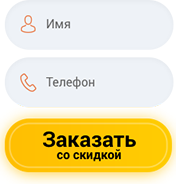
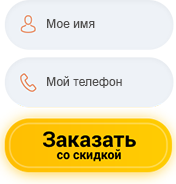
kh add adaptive edits

Changed region(s): [[0.2557, 0.4076, 0.7102, 0.4891], [0.2557, 0.0815, 0.5398, 0.163]]

diff --git a/source/template/common/k__intro-bottom.html b/source/template/common/k__intro-bottom.html
@@ -77,14 +77,14 @@
                 <div class="intro__form">
                     <div class="intro__pack">
                         <div class="intro__pack-tablets">
-                            <div class="intro__pack-label font_black">299 <span class="intro__pacl-currency">₽</span></div>
+                            <div class="intro__pack-label font_black x_price_current">299 <span class="intro__pacl-currency x_currency">₽</span></div>
                             <div class="intro__tablets">
                                 <img src="img/product-pack-tab.png" alt="" class="intro__pack-img">
                             </div>
                             <img src="img/product-tablets.png" alt="" class="intro__pack-img intro__pack-img_tablets">
                         </div>
                         <div class="intro__pack-gel">
-                            <div class="intro__pack-label intro__pack-label_island font_black">299 <span class="intro__pacl-currency">₽</span></div>
+                            <div class="intro__pack-label intro__pack-label_island font_black x_price_current">299 <span class="intro__pacl-currency x_currency">₽</span></div>
                             <img src="img/product-gel.png" alt="" class="intro__pack-img intro__pack-img_gel">
                         </div>
                         <img src="img/product-stick.png" alt="" class="intro__pack-img intro__pack-img_stick">
@@ -92,7 +92,7 @@
                     <div class="form">
                         <div class="form__wrap">
                             <div class="form__title">
-                                Успейте заказать со скидкой <br> <span class="form__title-accent font_medium">до <span class="date-0" data-format="mm.dd.yyyy">10.09.2018</span></span>
+                                Успейте заказать со скидкой <br> <span class="form__title-accent font_medium">до <span class="date-0" data-format="dd.mm.yyyy">10.09.2018</span></span>
                             </div>
                             <div class="form__price">
                                 <div class="form__price-old">
@@ -111,8 +111,12 @@
                                 </div>
                             </div>
                             <form class="form__main x_order_form" action="/submit" method="post">
-                                <input type="text" name="name" class="form__main-input form__main-name" placeholder="Мое имя" required>
-                                <input type="text" name="tel" class="form__main-input form__main-tel" placeholder="Мой телефон" required>
+                                <div class="form__main-name">
+                                    <input type="text" name="name" class="form__main-input" placeholder="Мое имя" required>
+                                </div>
+                                <div class="form__main-tel">
+                                    <input type="tel" name="phone" class="form__main-input" placeholder="Мой телефон" required>
+                                </div>
                                 <div class="btn-box">
                                     <button type="submit" class="btn font_bold">Заказать <span class="small-text">со скидкой</span></button>
                                 </div>

diff --git a/source/template/common/a__intro.html b/source/template/common/a__intro.html
@@ -77,14 +77,14 @@
             <div class="intro__form">
                 <div class="intro__pack">
                     <div class="intro__pack-tablets">
-                        <div class="intro__pack-label font_black">299 <span class="intro__pacl-currency">₽</span></div>
+                        <div class="intro__pack-label font_black x_price_current">299 <span class="intro__pacl-currency x_currency">₽</span></div>
                         <div class="intro__tablets">
                             <img src="img/product-pack-tab.png" alt="" class="intro__pack-img">
                         </div>
                         <img src="img/product-tablets.png" alt="" class="intro__pack-img intro__pack-img_tablets">
                     </div>
                     <div class="intro__pack-gel">
-                        <div class="intro__pack-label intro__pack-label_island font_black">299 <span class="intro__pacl-currency">₽</span></div>
+                        <div class="intro__pack-label intro__pack-label_island font_black x_price_current">299 <span class="intro__pacl-currency x_currency">₽</span></div>
                         <img src="img/product-gel.png" alt="" class="intro__pack-img intro__pack-img_gel">
                     </div>
                     <img src="img/product-stick.png" alt="" class="intro__pack-img intro__pack-img_stick">
@@ -92,7 +92,7 @@
                 <div class="form">
                     <div class="form__wrap">
                         <div class="form__title">
-                            Успейте заказать со скидкой <br> <span class="form__title-accent font_medium">до <span class="date-0" data-format="mm.dd.yyyy">10.09.2018</span></span>
+                            Успейте заказать со скидкой <br> <span class="form__title-accent font_medium">до <span class="date-0" data-format="dd.mm.yyyy">10.09.2018</span></span>
                         </div>
                         <div class="form__price">
                             <div class="form__price-old">
@@ -111,8 +111,12 @@
                             </div>
                         </div>
                         <form class="form__main x_order_form" action="/submit" method="post">
-                            <input type="text" name="name" class="form__main-input form__main-name" placeholder="Мое имя" required>
-                            <input type="tel" name="phone" class="form__main-input form__main-tel" placeholder="Мой телефон" required>
+                            <div class="form__main-name">
+                                <input type="text" name="name" class="form__main-input" placeholder="Мое имя" required>
+                            </div>
+                            <div class="form__main-tel">
+                                <input type="tel" name="phone" class="form__main-input" placeholder="Мой телефон" required>
+                            </div>
                             <div class="btn-box">
                                 <button type="submit" class="btn font_bold">Заказать <span class="small-text">со скидкой</span></button>
                             </div>

diff --git a/source/style/common/a__intro.scss b/source/style/common/a__intro.scss
@@ -6,6 +6,13 @@
   background-repeat: no-repeat;
   margin-bottom: 100px;
 
+  .container {
+
+    @include laptop {
+      max-width: 800px;
+    }
+  }
+
   &::after {
     content: '';
     position: absolute;
@@ -29,6 +36,14 @@
   @include laptop {
     background-image: none;
     margin-bottom: 0;
+  }
+
+  @include tablet {
+    padding-bottom: 35px;
+  }
+
+  @include phone {
+    padding-bottom: 30px;
   }
 }
 
@@ -408,7 +423,7 @@
 
   @include laptop {
     max-width: none;
-    width: 700px;
+    max-width: 700px;
     font-size: 39px;
     text-align: center;
     margin: 0 auto 25px;
@@ -416,7 +431,7 @@
 
   @include tablet {
     font-size: 34px;
-    width: 100%;
+    max-width: 500px;
     margin: 0 auto 20px;
   }
 
@@ -445,6 +460,13 @@
   justify-content: space-between;
   align-items: center;
   line-height: 1;
+
+  &:nth-child(2) {
+    
+    @include laptop {
+      margin-right: 5px;
+    }
+  }
 
   @include laptop {
     flex-direction: column;
@@ -576,7 +598,7 @@
   line-height: 1.1;
 
   @include laptop {
-    width: 250px;
+    width: 242px;
     font-size: 16px;
   }
 
@@ -724,24 +746,41 @@
   width: 100%;
   padding: 25px 25px 20px 55px;
   background-color: #eef2f7;
-  background-position: 21px 50%;
-  background-repeat: no-repeat;
   border-radius: 100px;
   border: none;
   outline: none;
-
-  &:not(:last-of-type) {
-    margin-bottom: 10px;
-  }
-
 }
 
 .form__main-name {
-  background-image: url('../img/form-name.svg');
+  position: relative;
+  margin-bottom: 10px;
+
+  &::before {
+    content: '';
+    position: absolute;
+    top: 50%;
+    left: 21px;
+    display: block;
+    width: 19px;
+    height: 23px;
+    background: url('../img/form-name.svg') 0 0 no-repeat;
+    // transform: translateX(-50%);
+    transform: translateY(-50%);
+  }
 }
 
 .form__main-tel {
-  background-image: url('../img/form-tel.svg');
+
+  &::before {
+    content: '';
+    position: absolute;
+    top: 51%;
+    left: 37px;
+    display: block;
+    width: 21px;
+    height: 24px;
+    background: url('../img/form-tel.svg') 0 0 no-repeat;
+  }
 }
 
 .intro {
@@ -753,7 +792,7 @@
 
 
 .form__main-footnote {
-  margin-bottom: 10px;
+  margin-bottom: 12px;
   text-align: center;
   font-size: 14px;
 }

diff --git a/source/template/common/popup.html b/source/template/common/popup.html
@@ -25,7 +25,7 @@
                         <div class="form">
                             <div class="form__wrap">
                                 <div class="form__title">
-                                    Успейте заказать со скидкой <br> <span class="form__title-accent font_medium">до <span class="date-0" data-format="mm.dd.yyyy">10.09.2018</span></span>
+                                    Успейте заказать со скидкой <br> <span class="form__title-accent font_medium">до <span class="date-0" data-format="dd.mm.yyyy">10.09.2018</span></span>
                                 </div>
                                 <div class="form__price">
                                     <div class="form__price-old">
@@ -44,8 +44,12 @@
                                     </div>
                                 </div>
                                 <form class="form__main x_order_form" action="/submit" method="post">
-                                    <input type="text" name="name" class="form__main-input form__main-name" placeholder="Имя" required>
-                                    <input type="text" name="tel" class="form__main-input form__main-tel" placeholder="Телефон" required>
+                                    <div class="form__main-name">
+                                        <input type="text" name="name" class="form__main-input" placeholder="Мое имя" required>
+                                    </div>
+                                    <div class="form__main-tel">
+                                        <input type="tel" name="phone" class="form__main-input" placeholder="Мой телефон" required>
+                                    </div>
                                     <div class="btn-box">
                                         <button type="submit" class="btn font_bold">Заказать <span class="small-text">со скидкой</span></button>
                                     </div>

diff --git a/source/style/common/k__intro-bottom.scss b/source/style/common/k__intro-bottom.scss
@@ -1,5 +1,13 @@
 .intro_bottom {
-    padding-top: 30px;
+    padding-top: 40px;
+
+    @include tablet {
+        padding-top: 35px;
+    }
+
+    @include phone {
+        padding-top: 30px;
+    }
 
     .intro__header {
         padding-top: 0;
@@ -11,6 +19,10 @@
     }
 
     @include tablet {
+        padding-bottom: 35px;
+    }
+
+    @include phone {
         padding-bottom: 30px;
     }
 

diff --git a/source/style/common/f__recommendation.scss b/source/style/common/f__recommendation.scss
@@ -2,7 +2,11 @@
     background-color: #f3f9ff;
 
     @include tablet {
-        padding-top: 15px;
+        padding-top: 23px;
+    }
+
+    @include phone {
+        padding-top: 18px;
     }
 }
 

diff --git a/source/style/common/g__composition.scss b/source/style/common/g__composition.scss
@@ -3,6 +3,10 @@
         padding-top: 0;
 
         @include tablet {
+            padding-top: 35px;
+        }
+
+        @include phone {
             padding-top: 30px;
         }
     }

diff --git a/source/style/app.scss b/source/style/app.scss
@@ -81,11 +81,11 @@ section {
   }
 
   @include tablet {
-    padding: 30px 0;
+    padding: 35px 0;
   }
 
   @include phone {
-    padding: 25px 0;
+    padding: 30px 0;
   }
 
 }

diff --git a/source/style/common/i__reviews.scss b/source/style/common/i__reviews.scss
@@ -1,11 +1,4 @@
 .reviews {
-  &.block {
-    padding-top: 35px;
-
-    @include laptop {
-      padding-top: 15px;
-    }
-  }
 
   &::before {
     content: '';
